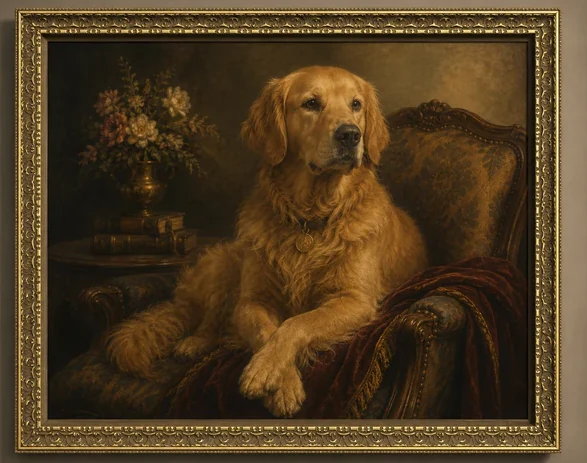
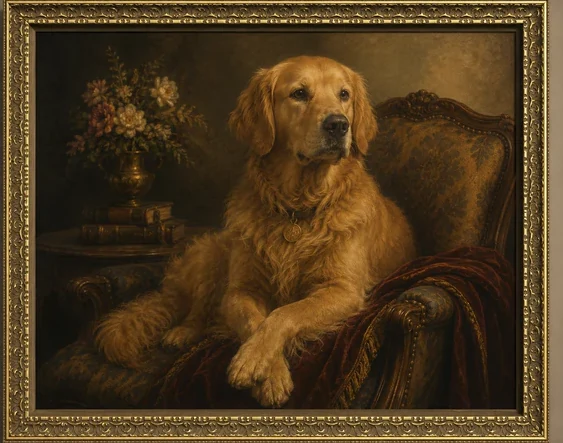
widget: trim the drop shadow out of the cropped wall frames
The difference-based crop found the moulding correctly but also swallowed the
mockup's baked-in drop shadow, which then read as a grey backing board behind
the frame once it was placed on the room wall. Trimming a further 2.2% per side
removes it; the moulding lost is invisible at wall scale.

Art-window insets recomputed against the tighter crop.

diff --git a/backend/static/widget.js b/backend/static/widget.js
@@ -40,11 +40,11 @@
   var FRAMES = [
     { code: "U", key: null,             label: "Unframed",            bare: true },
     { code: "G", key: "antique_gold",   label: "Antique Gold",        l: 7.5, t: 8, w: 85, h: 84,
-      cut: { l: 5.8, t: 6.3, w: 86.9, h: 87.1 }, ar: 587 / 463, mould: 2 },
+      cut: { l: 3.9, t: 4.4, w: 90.6, h: 91.0 }, ar: 563 / 443, mould: 2 },
     { code: "R", key: "antique_silver", label: "Antique Silver",      l: 8,   t: 8, w: 84, h: 84,
-      cut: { l: 6.2, t: 8.1, w: 86.6, h: 85.1 }, ar: 582 / 475, mould: 2 },
+      cut: { l: 4.3, t: 6.3, w: 90.3, h: 88.8 }, ar: 558 / 455, mould: 2 },
     { code: "B", key: "baroque_gold",   label: "Baroque Gold (Wide)", l: 9.5, t: 9, w: 81, h: 82,
-      cut: { l: 5.8, t: 9.2, w: 85.1, h: 83.9 }, ar: 571 / 469, mould: 3 }
+      cut: { l: 3.8, t: 7.4, w: 88.8, h: 87.7 }, ar: 547 / 449, mould: 3 }
   ];
   FRAMES.forEach(function (f) {
     if (!f.key) return;
